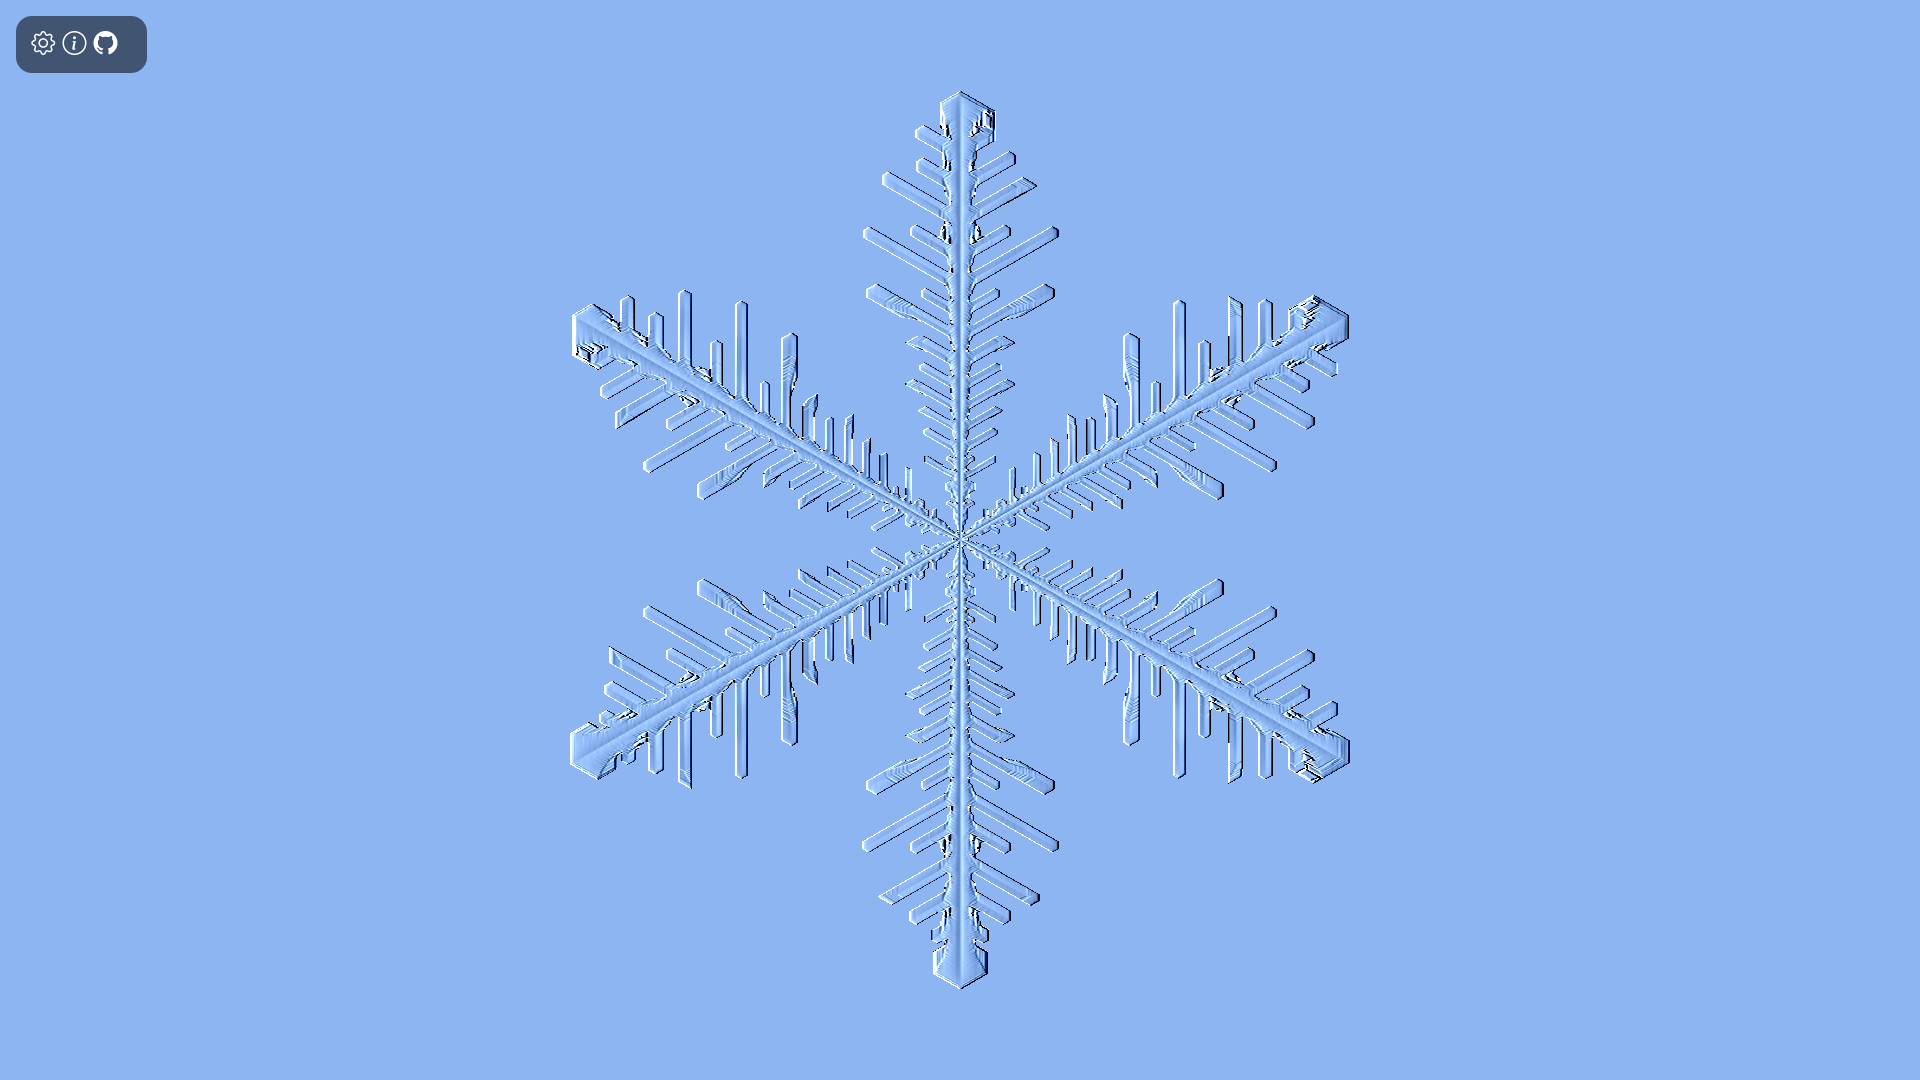
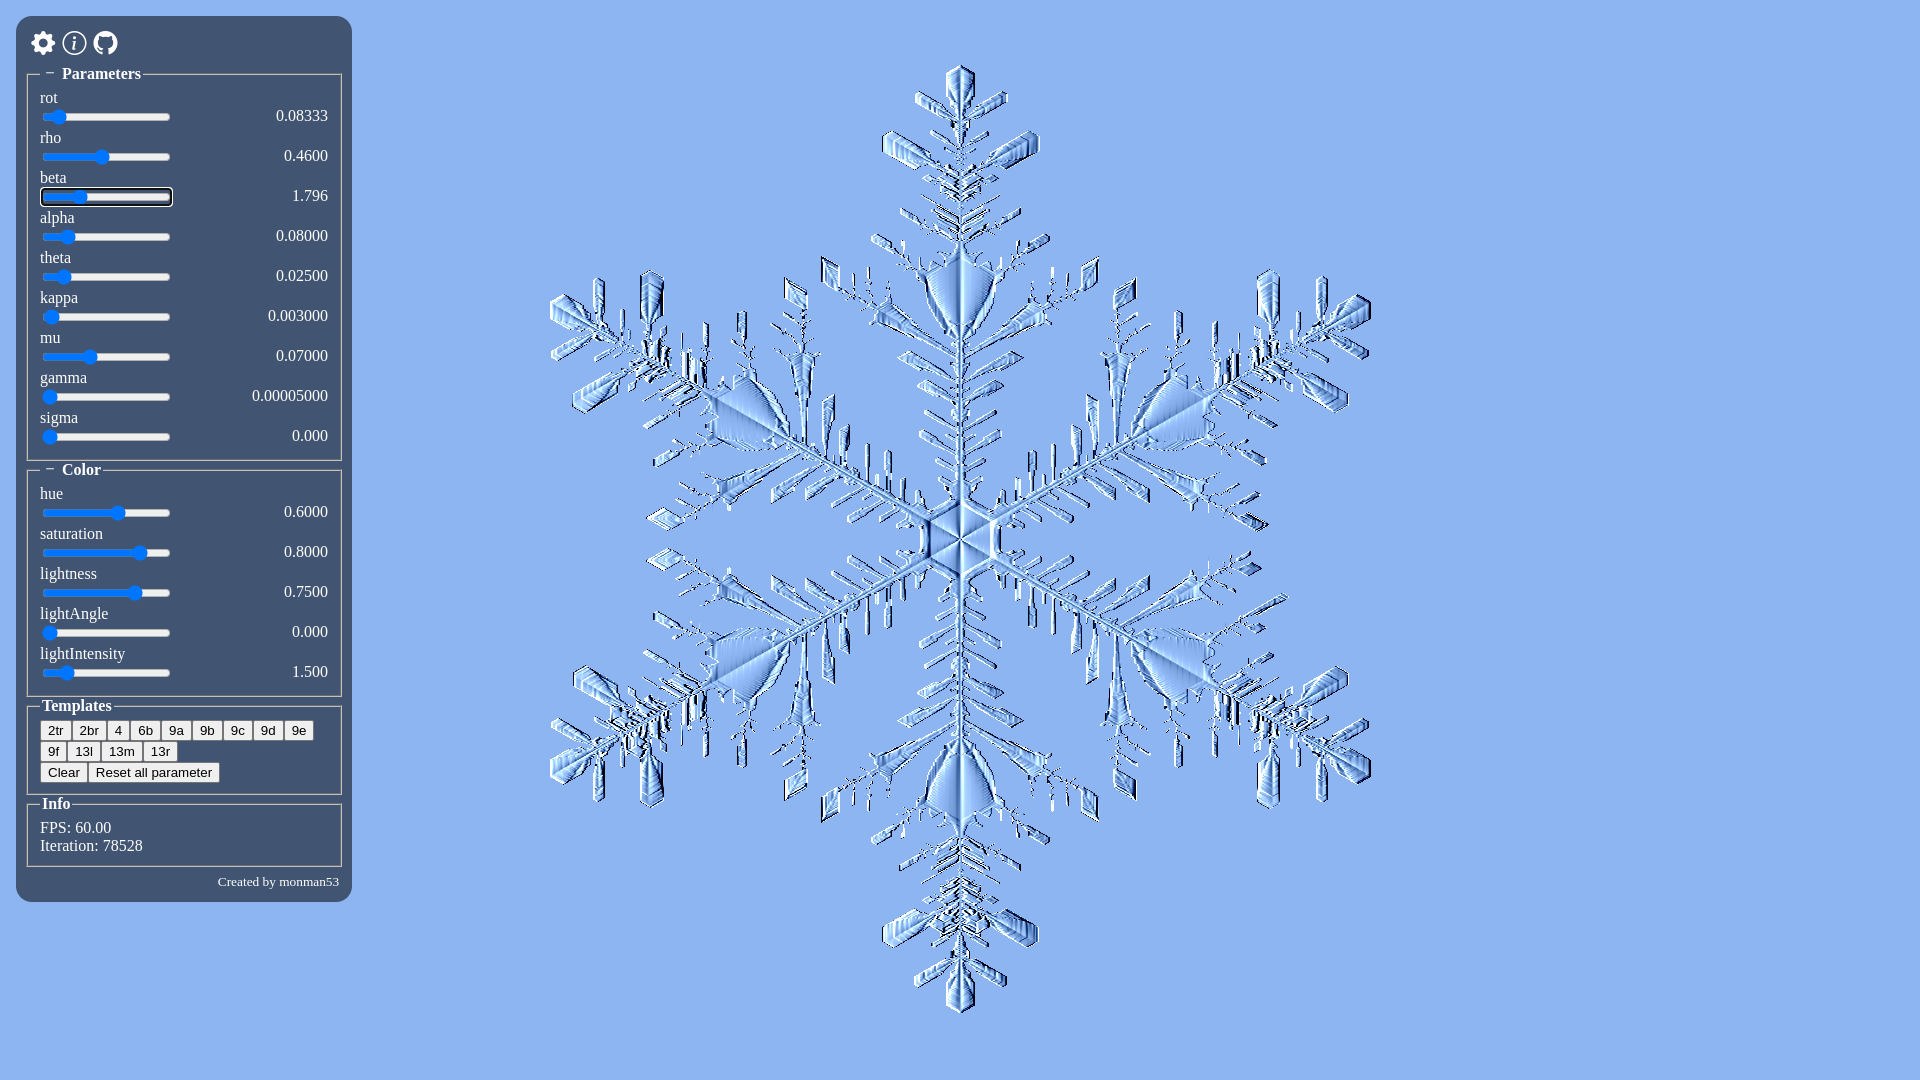
Update screenshots

Changed region(s): [[0.2812, 0.0611, 0.7188, 0.9472], [0.0, 0.0, 0.1875, 0.8556]]

diff --git a/README.md b/README.md
@@ -7,6 +7,8 @@ Physica D: Nonlinear Phenomena, Volume 237, Issue 3, 2008, Pages 385-404
 ## Screenshots
 
 ![screenshot](./screenshot.png)
+![screenshot](./screenshot2.png)
+![screenshot](./screenshot3.png)
 
 ## Development
 
